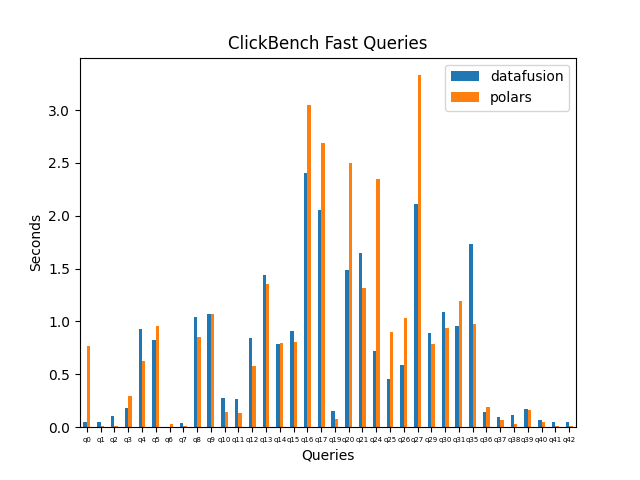
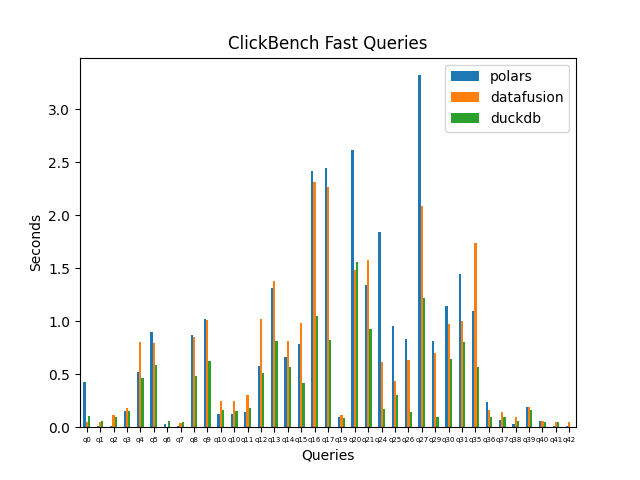
add duckdb clickbench benchmarks

Changed region(s): [[0.125, 0.2188, 0.875, 0.9375], [0.6875, 0.125, 0.875, 0.2812], [0.0625, 0.2188, 0.125, 0.25]]

diff --git a/querybench/duckdb_clickbench_queries.py b/querybench/duckdb_clickbench_queries.py
@@ -1,0 +1,256 @@
+import duckdb
+from helpers import benchmark, get_results
+import sys
+import pandas as pd
+
+def duck_sql(sql, path):
+    return sql.replace("hits", f"read_parquet('{path}')")
+
+def q0(path):
+    sql = "SELECT COUNT(*) FROM hits;"
+    return duckdb.sql(duck_sql(sql, path)).df()
+
+def q1(path):
+    sql = "SELECT COUNT(*) FROM hits WHERE AdvEngineID <> 0;"
+    return duckdb.sql(duck_sql(sql, path)).df()
+
+def q2(path):
+    sql = "SELECT SUM(AdvEngineID), COUNT(*), AVG(ResolutionWidth) FROM hits;"
+    return duckdb.sql(duck_sql(sql, path)).df()
+
+def q3(path):
+    sql = "SELECT AVG(UserID) FROM hits;"
+    return duckdb.sql(duck_sql(sql, path)).df()
+
+def q4(path):
+    sql = "SELECT COUNT(DISTINCT UserID) FROM hits;"
+    return duckdb.sql(duck_sql(sql, path)).df()
+
+def q5(path):
+    sql = "SELECT COUNT(DISTINCT SearchPhrase) FROM hits;"
+    return duckdb.sql(duck_sql(sql, path)).df()
+
+def q6(path):
+    sql = "SELECT MIN(EventDate), MAX(EventDate) FROM hits;"
+    return duckdb.sql(duck_sql(sql, path)).df()
+
+def q7(path):
+    sql = "SELECT AdvEngineID, COUNT(*) FROM hits WHERE AdvEngineID <> 0 GROUP BY AdvEngineID ORDER BY COUNT(*) DESC;"
+    return duckdb.sql(duck_sql(sql, path)).df()
+
+def q8(path):
+    sql = "SELECT RegionID, COUNT(DISTINCT UserID) AS u FROM hits GROUP BY RegionID ORDER BY u DESC LIMIT 10;"
+    return duckdb.sql(duck_sql(sql, path)).df()
+
+def q9(path):
+    sql = "SELECT RegionID, SUM(AdvEngineID), COUNT(*) AS c, AVG(ResolutionWidth), COUNT(DISTINCT UserID) FROM hits GROUP BY RegionID ORDER BY c DESC LIMIT 10;"
+    return duckdb.sql(duck_sql(sql, path)).df()
+
+def q10(path):
+    sql = "SELECT MobilePhoneModel, COUNT(DISTINCT UserID) AS u FROM hits WHERE MobilePhoneModel <> '' GROUP BY MobilePhoneModel ORDER BY u DESC LIMIT 10;"
+    return duckdb.sql(duck_sql(sql, path)).df()
+
+def q11(path):
+    sql = "SELECT MobilePhone, MobilePhoneModel, COUNT(DISTINCT UserID) AS u FROM hits WHERE MobilePhoneModel <> '' GROUP BY MobilePhone, MobilePhoneModel ORDER BY u DESC LIMIT 10;"
+    return duckdb.sql(duck_sql(sql, path)).df()
+
+def q12(path):
+    sql = "SELECT SearchPhrase, COUNT(*) AS c FROM hits WHERE SearchPhrase <> '' GROUP BY SearchPhrase ORDER BY c DESC LIMIT 10;"
+    return duckdb.sql(duck_sql(sql, path)).df()
+
+def q13(path):
+    sql = "SELECT SearchPhrase, COUNT(DISTINCT UserID) AS u FROM hits WHERE SearchPhrase <> '' GROUP BY SearchPhrase ORDER BY u DESC LIMIT 10;"
+    return duckdb.sql(duck_sql(sql, path)).df()
+
+def q14(path):
+    sql = "SELECT SearchEngineID, SearchPhrase, COUNT(*) AS c FROM hits WHERE SearchPhrase <> '' GROUP BY SearchEngineID, SearchPhrase ORDER BY c DESC LIMIT 10;"
+    return duckdb.sql(duck_sql(sql, path)).df()
+
+def q15(path):
+    sql = "SELECT UserID, COUNT(*) FROM hits GROUP BY UserID ORDER BY COUNT(*) DESC LIMIT 10;"
+    return duckdb.sql(duck_sql(sql, path)).df()
+
+def q16(path):
+    sql = "SELECT UserID, SearchPhrase, COUNT(*) FROM hits GROUP BY UserID, SearchPhrase ORDER BY COUNT(*) DESC LIMIT 10;"
+    return duckdb.sql(duck_sql(sql, path)).df()
+
+def q17(path):
+    sql = "SELECT UserID, SearchPhrase, COUNT(*) FROM hits GROUP BY UserID, SearchPhrase LIMIT 10;"
+    return duckdb.sql(duck_sql(sql, path)).df()
+
+def q18(path):
+    sql = "SELECT UserID, EXTRACT(MINUTE FROM TO_TIMESTAMP(EventTime)) AS m, SearchPhrase, COUNT(*) FROM hits GROUP BY UserID, m, SearchPhrase ORDER BY COUNT(*) DESC LIMIT 10;"
+    return duckdb.sql(duck_sql(sql, path)).df()
+
+def q19(path):
+    sql = "SELECT UserID FROM hits WHERE UserID = 435090932899640449;"
+    return duckdb.sql(duck_sql(sql, path)).df()
+
+def q20(path):
+    sql = "SELECT COUNT(*) FROM hits WHERE URL LIKE '%google%';"
+    return duckdb.sql(duck_sql(sql, path)).df()
+
+def q21(path):
+    sql = "SELECT SearchPhrase, MIN(URL), COUNT(*) AS c FROM hits WHERE URL LIKE '%google%' AND SearchPhrase <> '' GROUP BY SearchPhrase ORDER BY c DESC LIMIT 10;"
+    return duckdb.sql(duck_sql(sql, path)).df()
+
+def q22(path):
+    sql = "SELECT SearchPhrase, MIN(URL), MIN(Title), COUNT(*) AS c, COUNT(DISTINCT UserID) FROM hits WHERE Title LIKE '%Google%' AND URL NOT LIKE '%.google.%' AND SearchPhrase <> '' GROUP BY SearchPhrase ORDER BY c DESC LIMIT 10;"
+    return duckdb.sql(duck_sql(sql, path)).df()
+
+def q23(path):
+    sql = "SELECT * FROM hits WHERE URL LIKE '%google%' ORDER BY EventTime LIMIT 10;"
+    return duckdb.sql(duck_sql(sql, path)).df()
+
+def q24(path):
+    sql = "SELECT SearchPhrase FROM hits WHERE SearchPhrase <> '' ORDER BY EventTime LIMIT 10;"
+    return duckdb.sql(duck_sql(sql, path)).df()
+
+def q25(path):
+    sql = "SELECT SearchPhrase FROM hits WHERE SearchPhrase <> '' ORDER BY SearchPhrase LIMIT 10;"
+    return duckdb.sql(duck_sql(sql, path)).df()
+
+def q26(path):
+    sql = "SELECT SearchPhrase FROM hits WHERE SearchPhrase <> '' ORDER BY EventTime, SearchPhrase LIMIT 10;"
+    return duckdb.sql(duck_sql(sql, path)).df()
+
+def q27(path):
+    sql = "SELECT CounterID, AVG(STRLEN(URL)) AS l, COUNT(*) AS c FROM hits WHERE URL <> '' GROUP BY CounterID HAVING COUNT(*) > 100000 ORDER BY l DESC LIMIT 25;"
+    return duckdb.sql(duck_sql(sql, path)).df()
+
+def q28(path):
+    sql = r"""SELECT REGEXP_REPLACE(Referer, '^https?://(?:www\.)?([^/]+)/.*$', '\1') AS k, AVG(STRLEN(Referer)) AS l, COUNT(*) AS c, MIN(Referer) FROM hits WHERE Referer <> '' GROUP BY k HAVING COUNT(*) > 100000 ORDER BY l DESC LIMIT 25;"""
+    return duckdb.sql(duck_sql(sql, path)).df()
+
+def q29(path):
+    sql = """
+    SELECT 
+        SUM(ResolutionWidth), SUM(ResolutionWidth + 1), SUM(ResolutionWidth + 2), SUM(ResolutionWidth + 3), SUM(ResolutionWidth + 4), 
+        SUM(ResolutionWidth + 5), SUM(ResolutionWidth + 6), SUM(ResolutionWidth + 7), SUM(ResolutionWidth + 8), SUM(ResolutionWidth + 9), 
+        SUM(ResolutionWidth + 10), SUM(ResolutionWidth + 11), SUM(ResolutionWidth + 12), SUM(ResolutionWidth + 13), SUM(ResolutionWidth + 14), 
+        SUM(ResolutionWidth + 15), SUM(ResolutionWidth + 16), SUM(ResolutionWidth + 17), SUM(ResolutionWidth + 18), SUM(ResolutionWidth + 19), 
+        SUM(ResolutionWidth + 20), SUM(ResolutionWidth + 21), SUM(ResolutionWidth + 22), SUM(ResolutionWidth + 23), SUM(ResolutionWidth + 24), 
+        SUM(ResolutionWidth + 25), SUM(ResolutionWidth + 26), SUM(ResolutionWidth + 27), SUM(ResolutionWidth + 28), SUM(ResolutionWidth + 29), 
+        SUM(ResolutionWidth + 30), SUM(ResolutionWidth + 31), SUM(ResolutionWidth + 32), SUM(ResolutionWidth + 33), SUM(ResolutionWidth + 34), 
+        SUM(ResolutionWidth + 35), SUM(ResolutionWidth + 36), SUM(ResolutionWidth + 37), SUM(ResolutionWidth + 38), SUM(ResolutionWidth + 39), 
+        SUM(ResolutionWidth + 40), SUM(ResolutionWidth + 41), SUM(ResolutionWidth + 42), SUM(ResolutionWidth + 43), SUM(ResolutionWidth + 44), 
+        SUM(ResolutionWidth + 45), SUM(ResolutionWidth + 46), SUM(ResolutionWidth + 47), SUM(ResolutionWidth + 48), SUM(ResolutionWidth + 49), 
+        SUM(ResolutionWidth + 50), SUM(ResolutionWidth + 51), SUM(ResolutionWidth + 52), SUM(ResolutionWidth + 53), SUM(ResolutionWidth + 54), 
+        SUM(ResolutionWidth + 55), SUM(ResolutionWidth + 56), SUM(ResolutionWidth + 57), SUM(ResolutionWidth + 58), SUM(ResolutionWidth + 59), 
+        SUM(ResolutionWidth + 60), SUM(ResolutionWidth + 61), SUM(ResolutionWidth + 62), SUM(ResolutionWidth + 63), SUM(ResolutionWidth + 64), 
+        SUM(ResolutionWidth + 65), SUM(ResolutionWidth + 66), SUM(ResolutionWidth + 67), SUM(ResolutionWidth + 68), SUM(ResolutionWidth + 69), 
+        SUM(ResolutionWidth + 70), SUM(ResolutionWidth + 71), SUM(ResolutionWidth + 72), SUM(ResolutionWidth + 73), SUM(ResolutionWidth + 74), 
+        SUM(ResolutionWidth + 75), SUM(ResolutionWidth + 76), SUM(ResolutionWidth + 77), SUM(ResolutionWidth + 78), SUM(ResolutionWidth + 79), 
+        SUM(ResolutionWidth + 80), SUM(ResolutionWidth + 81), SUM(ResolutionWidth + 82), SUM(ResolutionWidth + 83), SUM(ResolutionWidth + 84), 
+        SUM(ResolutionWidth + 85), SUM(ResolutionWidth + 86), SUM(ResolutionWidth + 87), SUM(ResolutionWidth + 88), SUM(ResolutionWidth + 89) 
+    FROM hits;
+    """
+    return duckdb.sql(duck_sql(sql, path)).df()
+
+def q30(path):
+    sql = "SELECT SearchEngineID, ClientIP, COUNT(*) AS c, SUM(IsRefresh), AVG(ResolutionWidth) FROM hits WHERE SearchPhrase <> '' GROUP BY SearchEngineID, ClientIP ORDER BY c DESC LIMIT 10;"
+    return duckdb.sql(duck_sql(sql, path)).df()
+
+def q31(path):
+    sql = "SELECT WatchID, ClientIP, COUNT(*) AS c, SUM(IsRefresh), AVG(ResolutionWidth) FROM hits WHERE SearchPhrase <> '' GROUP BY WatchID, ClientIP ORDER BY c DESC LIMIT 10;"
+    return duckdb.sql(duck_sql(sql, path)).df()
+
+def q32(path):
+    sql = "SELECT WatchID, ClientIP, COUNT(*) AS c, SUM(IsRefresh), AVG(ResolutionWidth) FROM hits GROUP BY WatchID, ClientIP ORDER BY c DESC LIMIT 10;"
+    return duckdb.sql(duck_sql(sql, path)).df()
+
+def q33(path):
+    sql = "SELECT URL, COUNT(*) AS c FROM hits GROUP BY URL ORDER BY c DESC LIMIT 10;"
+    return duckdb.sql(duck_sql(sql, path)).df()
+
+def q34(path):
+    sql = "SELECT 1, URL, COUNT(*) AS c FROM hits GROUP BY 1, URL ORDER BY c DESC LIMIT 10;"
+    return duckdb.sql(duck_sql(sql, path)).df()
+
+def q35(path):
+    sql = "SELECT ClientIP, ClientIP - 1, ClientIP - 2, ClientIP - 3, COUNT(*) AS c FROM hits GROUP BY ClientIP, ClientIP - 1, ClientIP - 2, ClientIP - 3 ORDER BY c DESC LIMIT 10;"
+    return duckdb.sql(duck_sql(sql, path)).df()
+
+def q36(path):
+    sql = "SELECT URL, COUNT(*) AS PageViews FROM hits WHERE CounterID = 62 AND make_date(EventDate) >= '2013-07-01' AND make_date(EventDate) <= '2013-07-31' AND DontCountHits = 0 AND IsRefresh = 0 AND URL <> '' GROUP BY URL ORDER BY PageViews DESC LIMIT 10;"
+    return duckdb.sql(duck_sql(sql, path)).df()
+
+def q37(path):
+    sql = "SELECT Title, COUNT(*) AS PageViews FROM hits WHERE CounterID = 62 AND make_date(EventDate) >= '2013-07-01' AND make_date(EventDate) <= '2013-07-31' AND DontCountHits = 0 AND IsRefresh = 0 AND Title <> '' GROUP BY Title ORDER BY PageViews DESC LIMIT 10;"
+    return duckdb.sql(duck_sql(sql, path)).df()
+
+def q38(path):
+    sql = "SELECT URL, COUNT(*) AS PageViews FROM hits WHERE CounterID = 62 AND make_date(EventDate) >= '2013-07-01' AND make_date(EventDate) <= '2013-07-31' AND IsRefresh = 0 AND IsLink <> 0 AND IsDownload = 0 GROUP BY URL ORDER BY PageViews DESC LIMIT 10 OFFSET 1000;"
+    return duckdb.sql(duck_sql(sql, path)).df()
+
+def q39(path):
+    sql = "SELECT TraficSourceID, SearchEngineID, AdvEngineID, CASE WHEN (SearchEngineID = 0 AND AdvEngineID = 0) THEN Referer ELSE '' END AS Src, URL AS Dst, COUNT(*) AS PageViews FROM hits WHERE CounterID = 62 AND make_date(EventDate) >= '2013-07-01' AND make_date(EventDate) <= '2013-07-31' AND IsRefresh = 0 GROUP BY TraficSourceID, SearchEngineID, AdvEngineID, Src, Dst ORDER BY PageViews DESC LIMIT 10 OFFSET 1000;"
+    return duckdb.sql(duck_sql(sql, path)).df()
+
+def q40(path):
+    sql = "SELECT URLHash, EventDate, COUNT(*) AS PageViews FROM hits WHERE CounterID = 62 AND make_date(EventDate) >= '2013-07-01' AND make_date(EventDate) <= '2013-07-31' AND IsRefresh = 0 AND TraficSourceID IN (-1, 6) AND RefererHash = 3594120000172545465 GROUP BY URLHash, EventDate ORDER BY PageViews DESC LIMIT 10 OFFSET 100;"
+    return duckdb.sql(duck_sql(sql, path)).df()
+
+def q41(path):
+    sql = "SELECT WindowClientWidth, WindowClientHeight, COUNT(*) AS PageViews FROM hits WHERE CounterID = 62 AND make_date(EventDate) >= '2013-07-01' AND make_date(EventDate) <= '2013-07-31' AND IsRefresh = 0 AND DontCountHits = 0 AND URLHash = 2868770270353813622 GROUP BY WindowClientWidth, WindowClientHeight ORDER BY PageViews DESC LIMIT 10 OFFSET 10000;"
+    return duckdb.sql(duck_sql(sql, path)).df()
+
+def q42(path):
+    sql = ""
+    return duckdb.sql(duck_sql(sql, path)).df()
+
+def run_benchmarks(path):
+    duckdb_benchmarks = {
+        "duration": [],  # in seconds
+        "task": [],
+    }
+
+    benchmark(q0, dfs=path, benchmarks=duckdb_benchmarks, name="q0")
+    benchmark(q1, dfs=path, benchmarks=duckdb_benchmarks, name="q1")
+    benchmark(q2, dfs=path, benchmarks=duckdb_benchmarks, name="q2")
+    benchmark(q3, dfs=path, benchmarks=duckdb_benchmarks, name="q3")
+    benchmark(q4, dfs=path, benchmarks=duckdb_benchmarks, name="q4")
+    benchmark(q5, dfs=path, benchmarks=duckdb_benchmarks, name="q5")
+    benchmark(q6, dfs=path, benchmarks=duckdb_benchmarks, name="q6")
+    benchmark(q7, dfs=path, benchmarks=duckdb_benchmarks, name="q7")
+    benchmark(q8, dfs=path, benchmarks=duckdb_benchmarks, name="q8")
+    benchmark(q9, dfs=path, benchmarks=duckdb_benchmarks, name="q9")
+    benchmark(q10, dfs=path, benchmarks=duckdb_benchmarks, name="q10")
+    benchmark(q10, dfs=path, benchmarks=duckdb_benchmarks, name="q10")
+    benchmark(q11, dfs=path, benchmarks=duckdb_benchmarks, name="q11")
+    benchmark(q12, dfs=path, benchmarks=duckdb_benchmarks, name="q12")
+    benchmark(q13, dfs=path, benchmarks=duckdb_benchmarks, name="q13")
+    benchmark(q14, dfs=path, benchmarks=duckdb_benchmarks, name="q14")
+    benchmark(q15, dfs=path, benchmarks=duckdb_benchmarks, name="q15")
+    benchmark(q16, dfs=path, benchmarks=duckdb_benchmarks, name="q16")
+    benchmark(q17, dfs=path, benchmarks=duckdb_benchmarks, name="q17")
+    benchmark(q18, dfs=path, benchmarks=duckdb_benchmarks, name="q18")
+    benchmark(q19, dfs=path, benchmarks=duckdb_benchmarks, name="q19")
+    benchmark(q20, dfs=path, benchmarks=duckdb_benchmarks, name="q20")
+    benchmark(q21, dfs=path, benchmarks=duckdb_benchmarks, name="q21")
+    benchmark(q22, dfs=path, benchmarks=duckdb_benchmarks, name="q22")
+    benchmark(q23, dfs=path, benchmarks=duckdb_benchmarks, name="q23")
+    benchmark(q24, dfs=path, benchmarks=duckdb_benchmarks, name="q24")
+    benchmark(q25, dfs=path, benchmarks=duckdb_benchmarks, name="q25")
+    benchmark(q26, dfs=path, benchmarks=duckdb_benchmarks, name="q26")
+    benchmark(q27, dfs=path, benchmarks=duckdb_benchmarks, name="q27")
+    benchmark(q28, dfs=path, benchmarks=duckdb_benchmarks, name="q28")
+    benchmark(q29, dfs=path, benchmarks=duckdb_benchmarks, name="q29")
+    benchmark(q30, dfs=path, benchmarks=duckdb_benchmarks, name="q30")
+    benchmark(q31, dfs=path, benchmarks=duckdb_benchmarks, name="q31")
+    benchmark(q32, dfs=path, benchmarks=duckdb_benchmarks, name="q32")
+    benchmark(q33, dfs=path, benchmarks=duckdb_benchmarks, name="q33")
+    benchmark(q34, dfs=path, benchmarks=duckdb_benchmarks, name="q34")
+    benchmark(q35, dfs=path, benchmarks=duckdb_benchmarks, name="q35")
+    benchmark(q36, dfs=path, benchmarks=duckdb_benchmarks, name="q36")
+    benchmark(q37, dfs=path, benchmarks=duckdb_benchmarks, name="q37")
+    benchmark(q38, dfs=path, benchmarks=duckdb_benchmarks, name="q38")
+    benchmark(q39, dfs=path, benchmarks=duckdb_benchmarks, name="q39")
+    benchmark(q40, dfs=path, benchmarks=duckdb_benchmarks, name="q40")
+    benchmark(q41, dfs=path, benchmarks=duckdb_benchmarks, name="q41")
+    # benchmark(q42, dfs=path, benchmarks=duckdb_benchmarks, name="q42")
+
+
+    duckdb_res_temp = get_results(duckdb_benchmarks).set_index("task")
+    print(duckdb_res_temp)
+    return duckdb_res_temp

diff --git a/querybench/run_clickbench.py b/querybench/run_clickbench.py
@@ -6,12 +6,11 @@ import pandas as pd
 import datafusion_clickbench_queries
 import daft_clickbench_queries
 import polars_clickbench_queries
+import duckdb_clickbench_queries
 from datafusion import SessionContext
 import os
 
 path = sys.argv[1]
-
-# Fast clickhouse queries
 
 # polars
 print("*** Polars ***")
@@ -33,25 +32,25 @@ datafusion_res = datafusion_clickbench_queries.run_benchmarks(ctx).rename(column
 print(datafusion_res)
 
 # daft
-# print("*** Daft ***")
-# df = daft.read_parquet(path)
-# daft_res = daft_clickbench_queries.run_benchmarks(df).rename(columns={"duration": "daft"})
+print("*** Daft ***")
+df = daft.read_parquet(path)
+daft_res = daft_clickbench_queries.run_benchmarks(df).rename(columns={"duration": "daft"})
 
 # duckdb
-# print("*** DuckDB ***")
-# duckdb_res = duckdb_h2o_groupby_queries.run_benchmarks([path]).rename(columns={"duration": "duckdb"})
+print("*** DuckDB ***")
+duckdb_res = duckdb_clickbench_queries.run_benchmarks(path).rename(columns={"duration": "duckdb"})
 
 # all results
 res = (
-    datafusion_res
-    .join(polars_res, on="task")
+    polars_res
+    .join(datafusion_res, on="task")
     # .join(daft_res, on="task")
-    # .join(duckdb_res, on="task")
+    .join(duckdb_res, on="task")
 )
 print(res)
-print("***")
-print(res.columns)
-# res = polars_res
+
+# res = duckdb_res
+# print(res)
 
 slow_queries = ['q18', 'q22', 'q23', 'q28', 'q32', 'q33', 'q34']
 

diff --git a/querybench/daft_clickbench_queries.py b/querybench/daft_clickbench_queries.py
@@ -88,7 +88,16 @@ def q20(df):
 
 def q21(df):
     hits = df
-    return daft.sql("SELECT SearchPhrase, MIN(URL), COUNT(*) AS c FROM hits WHERE URL LIKE '%google%' AND SearchPhrase <> '' GROUP BY SearchPhrase ORDER BY c DESC LIMIT 10;").collect()
+    return daft.sql(
+        """
+        SELECT SearchPhrase, MIN(URL), COUNT(*) AS c 
+        FROM hits 
+        WHERE URL LIKE '%google%' AND SearchPhrase <> '' 
+        GROUP BY SearchPhrase
+        ORDER BY c DESC 
+        LIMIT 10;
+        """
+    ).collect()
 
 def q22(df):
     hits = df
@@ -218,8 +227,8 @@ def run_benchmarks(df):
     benchmark(q30, df, benchmarks=benchmarks, name="q30")
     benchmark(q31, df, benchmarks=benchmarks, name="q31")
     benchmark(q32, df, benchmarks=benchmarks, name="q32")
-    benchmark(q33, df, benchmarks=benchmarks, name="q33")
-    benchmark(q34, df, benchmarks=benchmarks, name="q34")
+    # benchmark(q33, df, benchmarks=benchmarks, name="q33")
+    # benchmark(q34, df, benchmarks=benchmarks, name="q34")
     # benchmark(q35, df, benchmarks=benchmarks, name="q35")
     # benchmark(q36, df, benchmarks=benchmarks, name="q36")
     # benchmark(q37, df, benchmarks=benchmarks, name="q37")

diff --git a/README.md b/README.md
@@ -1,6 +1,8 @@
 # MrPowers Benchmarks
 
-This repo performs benchmarking analysis on common datasets with popular query engines like pandas, Polars, DataFusion, and PySpark.
+This repo performs benchmarking analysis on common datasets with popular query engines like pandas, Polars, DataFusion, and PySpark.  For example, here are the slower ClickBench benchmarks for a few select engines:
+
+![clickbench-slow](https://github.com/MrPowers/mrpowers-benchmarks/blob/main/images/clickbench-slow.png)
 
 It draws inspiration from the [h2o benchmarks](https://github.com/h2oai/db-benchmark) but also includes different types of queries and uses some different execution methodologies (e.g. modern file formats).
 

diff --git a/docs/other-benchmarks/clickbench.md b/docs/other-benchmarks/clickbench.md
@@ -1,6 +1,6 @@
 # ClickBench Benchmarks Pros and Cons
 
-The Clickbench benchmarks are based on a dataset with XX rows and XX columns.  The `hits.parquet` file is 14.8 GB in storage.
+The Clickbench benchmarks are based on a dataset with 99,537,185 rows and XX columns.  The `hits.parquet` file is 14.8 GB in storage.
 
 They contain queries like the following:
 

diff --git a/docs/other-benchmarks/polars-decision-support-pds-h.md b/docs/other-benchmarks/polars-decision-support-pds-h.md
@@ -1,0 +1,5 @@
+# Pros and cons of the Polars Decision Support (PDS-H) Benchmarks
+
+The [PDS-H benchmarks](https://pola.rs/posts/benchmarks/) are an adaptation of the TPC-H benchmarks.
+
+
